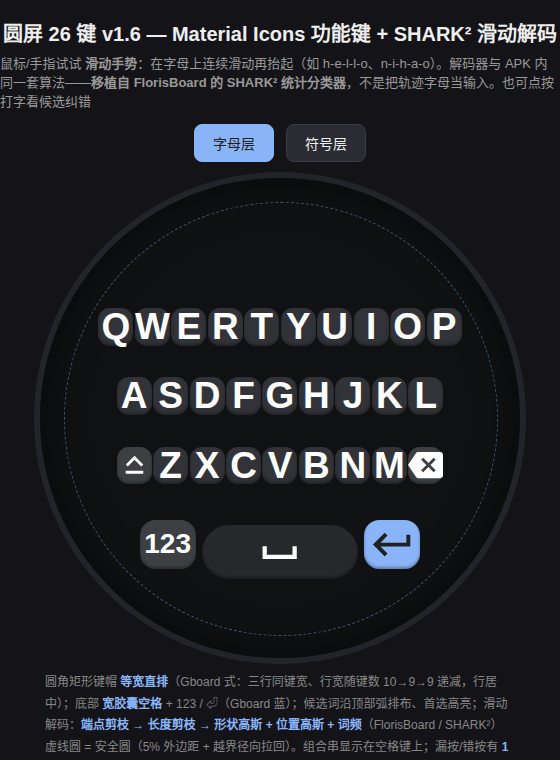
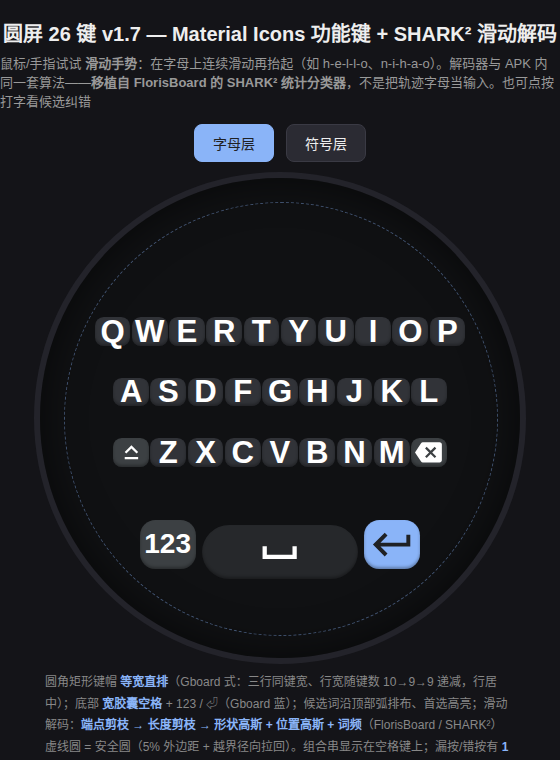
v1.8: 键帽改为横向扁宽长方形（宽:高 1.27:1），键距再外扩

diff --git a/app/src/main/java/com/example/roundkb/RoundKeyboardView.kt b/app/src/main/java/com/example/roundkb/RoundKeyboardView.kt
@@ -81,7 +81,7 @@ class RoundKeyboardView @JvmOverloads constructor(
         private val SYM2 = listOf(".", ",", "?", "!", "'", "\"", ":")
 
         /** 行宽占该高度处圆弧弦长的比例（直排下控制左右边距） */
-        private const val ROW_SPAN = 0.93f
+        private const val ROW_SPAN = 0.94f
     }
 
     private class Key {
@@ -175,29 +175,29 @@ class RoundKeyboardView @JvmOverloads constructor(
 
         // 等宽键步距：按最宽行（10 键）× 顶部行（最靠边、弦最短）确定，
         // 三行共用同一步距 → 行宽随键数自然递减（10 → 9 → 9），Gboard 式。
-        val dTop = 0.42f * R
+        val dTop = 0.40f * R
         val chordTop = sqrt(max(0f, R * R - dTop * dTop))
         val unit = 2f * chordTop * ROW_SPAN / 10f
 
         if (!symbols) {
             if (candMode) {
-                addCandidateRow(-0.64f, cx, cy, R)
-                addRow(ROW0, -0.40f, cx, cy, R, unit)
-                addRow(ROW1, -0.08f, cx, cy, R, unit)
-                addBottomRow(0.24f, cx, cy, R, unit)
-            } else {
-                addRow(ROW0, -0.42f, cx, cy, R, unit)
+                addCandidateRow(-0.62f, cx, cy, R)
+                addRow(ROW0, -0.38f, cx, cy, R, unit)
                 addRow(ROW1, -0.10f, cx, cy, R, unit)
-                addBottomRow(0.22f, cx, cy, R, unit)
+                addBottomRow(0.16f, cx, cy, R, unit)
+            } else {
+                addRow(ROW0, -0.40f, cx, cy, R, unit)
+                addRow(ROW1, -0.12f, cx, cy, R, unit)
+                addBottomRow(0.16f, cx, cy, R, unit)
             }
             addControls(cx, cy, R)
         } else {
-            addRow(SYM0, -0.42f, cx, cy, R, unit)
-            addRow(SYM1, -0.10f, cx, cy, R, unit)
+            addRow(SYM0, -0.40f, cx, cy, R, unit)
+            addRow(SYM1, -0.12f, cx, cy, R, unit)
             val bottom = mutableListOf("ABC")
             bottom.addAll(SYM2)
             bottom.add("DEL")
-            addRow(bottom, 0.22f, cx, cy, R, unit)
+            addRow(bottom, 0.16f, cx, cy, R, unit)
             addControls(cx, cy, R)
         }
 
@@ -254,7 +254,7 @@ class RoundKeyboardView @JvmOverloads constructor(
         if (n == 0 || unit <= 0f) return
 
         val hw = unit * 0.48f          // 键帽半宽（步距的 96%，留出键间隙）
-        val hh = unit * 0.52f          // 键帽半高（近方形，观感更宽）
+        val hh = unit * 0.38f          // 键帽半高（宽:高 ≈ 1.27:1，横向扁宽键）
 
         for ((i, s) in items.withIndex()) {
             val x = cx + (i - (n - 1) / 2f) * unit
@@ -461,7 +461,7 @@ class RoundKeyboardView @JvmOverloads constructor(
                 label = label.uppercase()
             }
 
-            var size = k.hh * (if (k.control) 1.5f else 1.95f)
+            var size = k.hh * (if (k.control) 1.5f else 2.2f)
             if (label.length > 2) {
                 val fit = k.hw * 1.8f / (0.60f * label.length)
                 size = min(size, fit)

diff --git a/README.md b/README.md
@@ -100,6 +100,8 @@ app/src/main/java/com/example/roundkb/
 
 ## 更新日志
 
+- **v1.8**：键帽改为**横向扁宽长方形**（宽:高 ≈ 1.27:1，此前 v1.7 只是近方形），键距再外扩（ROW_SPAN 0.94、顶行 0.40R），行距收紧、字母字号放大补偿
+
 - **v1.7**：**加宽键盘字母键**——键距（ROW_SPAN 0.88→0.93）与顶行位置（0.44R→0.42R）外扩，键帽高比 0.60→0.52 改为近方形观感，字母字号相应放大；安全圆余量 3.5%→2%
 
 - **v1.6**：抛弃自绘/Unicode 字符图标，全面改用 **Material Icons 图标库**矢量资源：功能键（Shift=capslock、退格=backspace、回车=keyboard_return、空格=space_bar）、应用启动图标（Adaptive Icon，键盘图标 + Gboard 蓝）、设置页按钮图标（settings / upload / delete）
